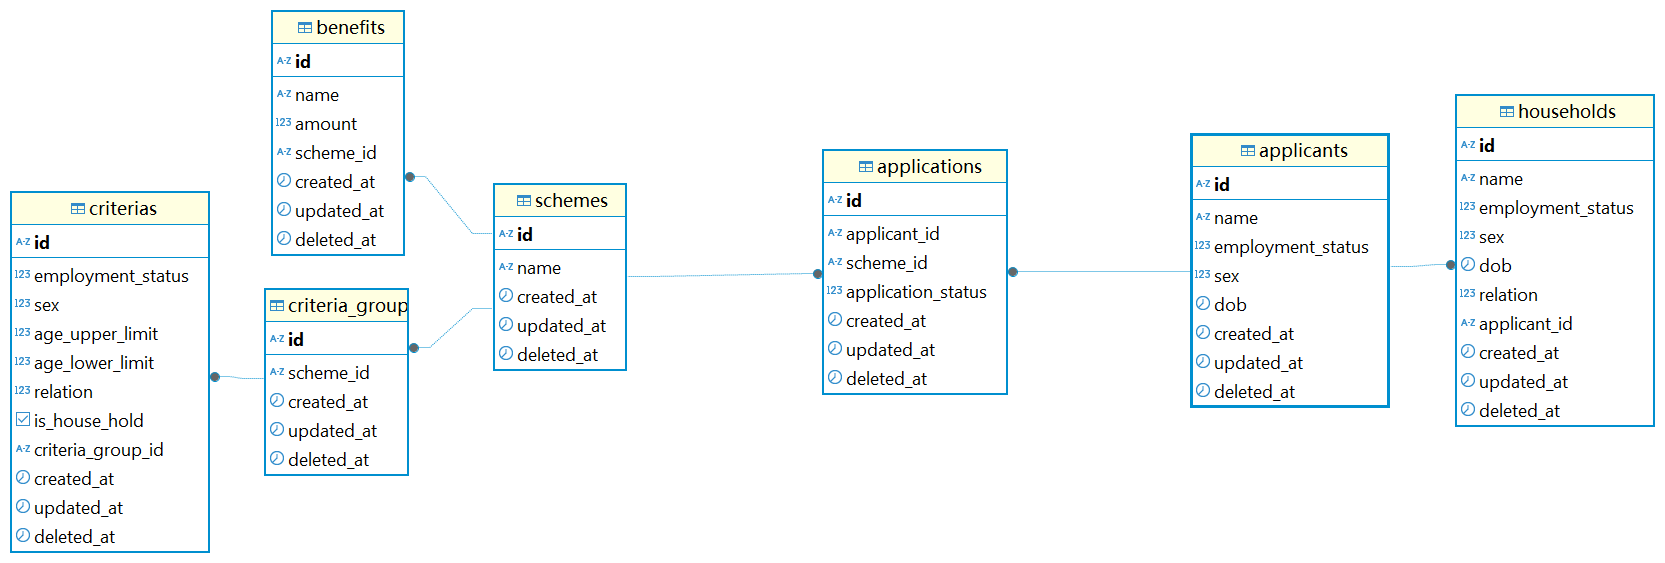
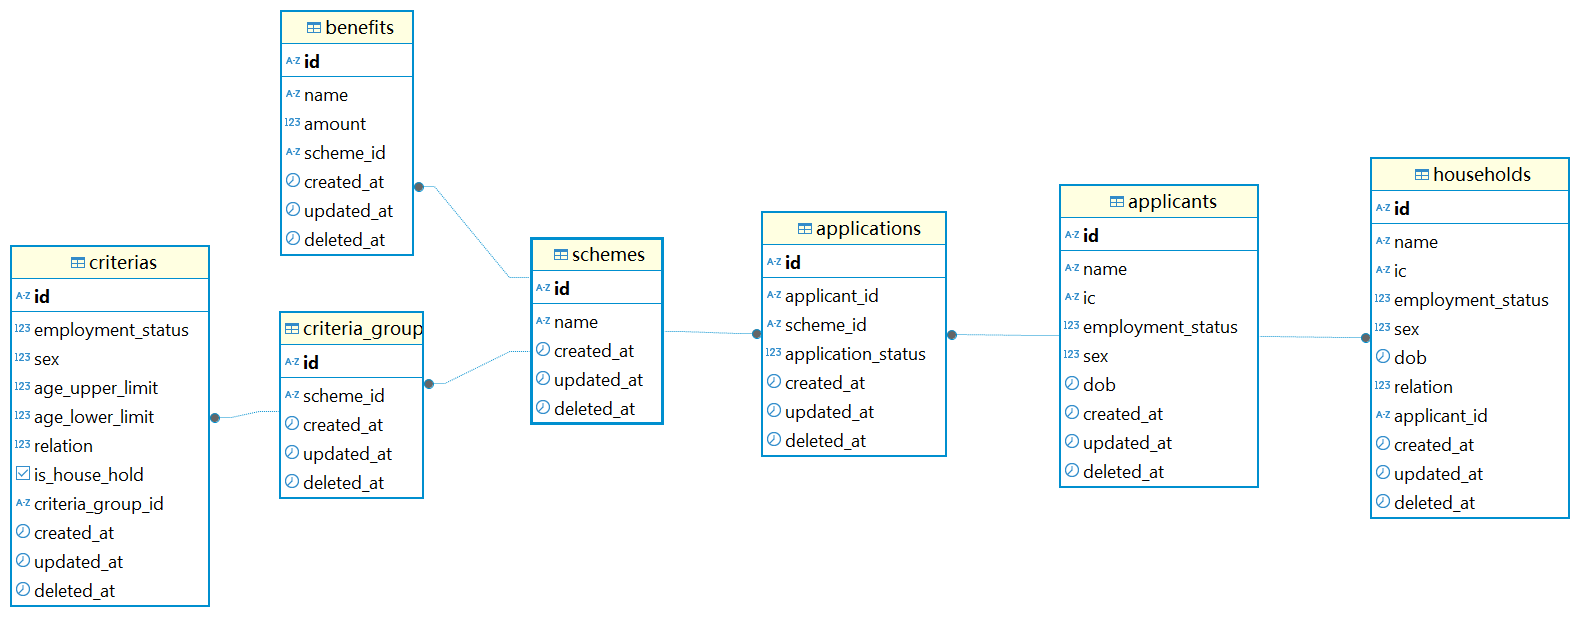
documentation updates

Changed region(s): [[0.0, 0.0, 0.6203, 0.9964], [0.8063, 0.151, 1.0, 0.8455], [0.6513, 0.2114, 0.8373, 0.8153]]

diff --git a/README.md b/README.md
@@ -19,16 +19,18 @@ This API, built with **Golang and Gin**, manages financial assistance schemes, a
 
 ### 1. Clone the Repository
 ```sh
-git clone https://github.com/your-repo.git
-cd your-repo
+git clone https://github.com/duweigg/FASMS-BE.git
+cd FASMS-BE
 ```
 
 ### 2. Install Dependencies
 ```sh
 go mod tidy
 ```
+### 3. create database "FASMS"
+in postgresql, create a database named "FASMS"
 
-### 3. Configure Environment Variables
+### 4. Configure Environment Variables
 Create a `.env` file:
 ```env
 PORT=8000
@@ -36,10 +38,10 @@ DB_URL="host=localhost user=postgres password=admin dbname=FASMS port=5432 sslmo
 ```
 or copy the file .env.example. and rename it as .env
 
-### 4. Run Database Migrations
+### 5. Run Database Migrations
 Using GORM, initialize the database:
 ```sh
-go run scripts/migrate.go
+go run migrate/migrate.go
 ```
 
 ### 5. Start the Server
@@ -62,8 +64,7 @@ go run main.go
 | `PUT` | `/api/applicants/{id}` | update existing applicant | The logic will compare the applicant's data, as well as households' data, so need to post the entire applicant data with households data including their UUIDs |
 | `DELETE` | `/api/applicants/{id}` | delete existing applicant | this will soft delete the applicant as well as his households, and updated related application record to "need review" status |
 | `GET` | `/api/schemes` | Retrieve all schemes | will need query param of page (default as 0) and page_size (default as 10). the first page is page 0 |
-| `GET` | `/api/schemes/eligible?applicant={id}` | Retrieve eligible schemes for an applicant | XXXXXXXXXXXXXX XXXXXXXXXXXXXXX XXXXX XXXXXXXXXXXX XXXXXXXXXXXXX XXXXXXXXXX XXXXXX XXXXXX 
-XXXXX XXXXXXXXXXXX XXXXXXXXXXXX XXXXXXXXXXX|
+| `GET` | `/api/schemes/eligible?applicant={id}` | Retrieve eligible schemes for an applicant | In order to be eligible, applicant must satisify all the criteria groups, each criteria group is considered as satisified if any of the criteria within the criteria groupo is satisified |
 | `POST` | `/api/schemes` | create new schemes | allow batch creatation. Please refer the payload in postman file |
 | `PUT` | `/api/schemes/{id}` | update existing schemes | The logic will compare the scheme's data, as well as all its criteria and benefits data, so need to post the entire scheme data with  criteria and benefits data including their UUIDs |
 | `DELETE` | `/api/schemes/{id}` | delete existing schemes | this will soft delete the scheme as well as its criteria and benefits, and updated related application record to "need review" status |
@@ -81,6 +82,7 @@ For full API details, check the **Postman Collection**.
 ### Applicants Table
 ![alt text](<FASMS - public.png>)
 
+### Application constant 
 | column | Value | Meaning |
 |--------|----------|-------------|
 | employ status | 0 | unemployed |

diff --git a/Notes.md b/Notes.md
@@ -3,15 +3,7 @@ Financial Assistance Scheme  Management System Backend
 
 
 TODO:
-
-verify the logic for eligibility checks    should be correct
-update put(update) applicant logic
 perpare database data
-
-proper endpoint authorisation checks in place and proper error handling logic in place. 
-data validation, and security practices
-
-
 
 
   Database Design: Quality of the database schema design. 
